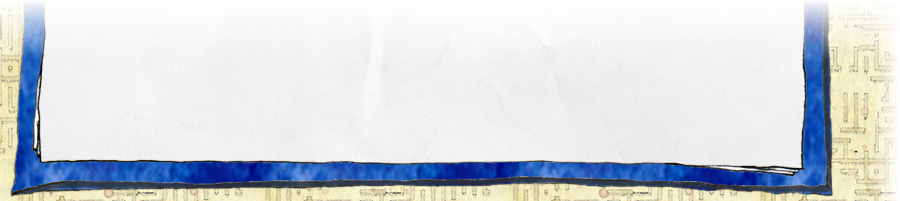
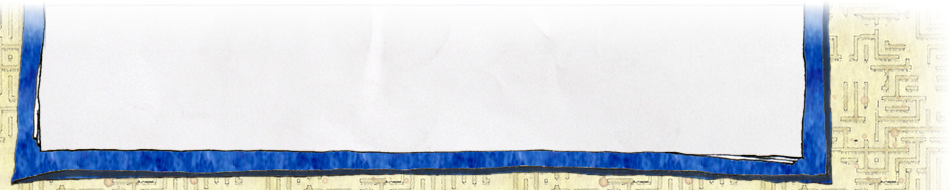
Improve critic layout.

Changed region(s): [[0.0, 0.0263, 0.9956, 1.0]]

diff --git a/web/betsy_johnson/index.html b/web/betsy_johnson/index.html
@@ -17,21 +17,27 @@ body {
   width: 900px; min-height: 100%;
   border-top: 50px solid transparent;
   border-bottom: 50px solid transparent;
+  background: url("blue-seamless-swatch.png") repeat;
 }
 #middle {
   position: absolute; left: 0; top: 0;
   width: 900px; height: 100%;
-  background: url("middle-tile.jpg") repeat-y;
+}
+#middle > div {
+  position: absolute; left: 0; bottom: 0; right: 0;
+  top: 656px; /* 706px - 50px */
+  background-image: url("middle-tile.png");
+  background-repeat: repeat-y;
 }
 #header {
   position: absolute; left: 0; top: -50px;/* compensate for top border */
   background: url("top-tile.png") no-repeat;
-  width: 900px; height: 799px;
+  width: 900px; height: 765px;
 }
 #footer {
   position: absolute; left: 0; bottom: -50px; /* compensate for bottom border*/
+  width: 950px; height: 190px;
   background: url("bottom-tile.png") no-repeat;
-  width: 900px; height: 201px;
 }
 #main {
   position: relative; left: 0; top: 0; /* make positioned so it's in z order */
@@ -46,12 +52,18 @@ body {
 }
 #title a { display: block; }
 #label {
-  position: absolute; left: 775px; top: 65px;
+  position: absolute; left: 771px; top: 65px;
   font-size: 28px;
   -webkit-transform: rotate(90deg);
   -moz-transform: rotate(90deg);
   transform: rotate(90deg);
   white-space: nowrap;
+  padding: 0 3px;
+  background: #eee;
+  -webkit-border-radius: 15px;
+  -moz-border-radius: 15px;
+  border-radius: 15px;
+  border: 1px solid black;
 }
 
 /* stylin' */
@@ -87,7 +99,7 @@ a { text-decoration: none; }
 </head>
 <body>
 <div id="folder">
-  <div id="middle"></div>
+  <div id="middle"><div></div></div>
   <div id="footer"></div>
   <div id="header"></div>
   <div id="label">Betsy Johnson</div>
@@ -117,6 +129,29 @@ a { text-decoration: none; }
     <div class="report">
       <a href="cpuzzle.html">Investigator's Report</a>
     </div>
+    <p>x</p>
+    <p>x</p>
+    <p>x</p>
+    <p>x</p>
+    <p>x</p>
+    <p>x</p>
+    <p>x</p>
+    <p>x</p>
+    <p>x</p>
+    <p>x</p>
+    <p>x</p>
+    <p>x</p>
+    <p>x</p>
+    <p>x</p>
+    <p>x</p>
+    <p>x</p>
+    <p>x</p>
+    <p>x</p>
+    <p>x</p>
+    <p>x</p>
+    <p>x</p>
+    <p>x</p>
+    <p>x</p>
 </div>
   <div id="title"><a href="index.html"></a></div>
 </div>
